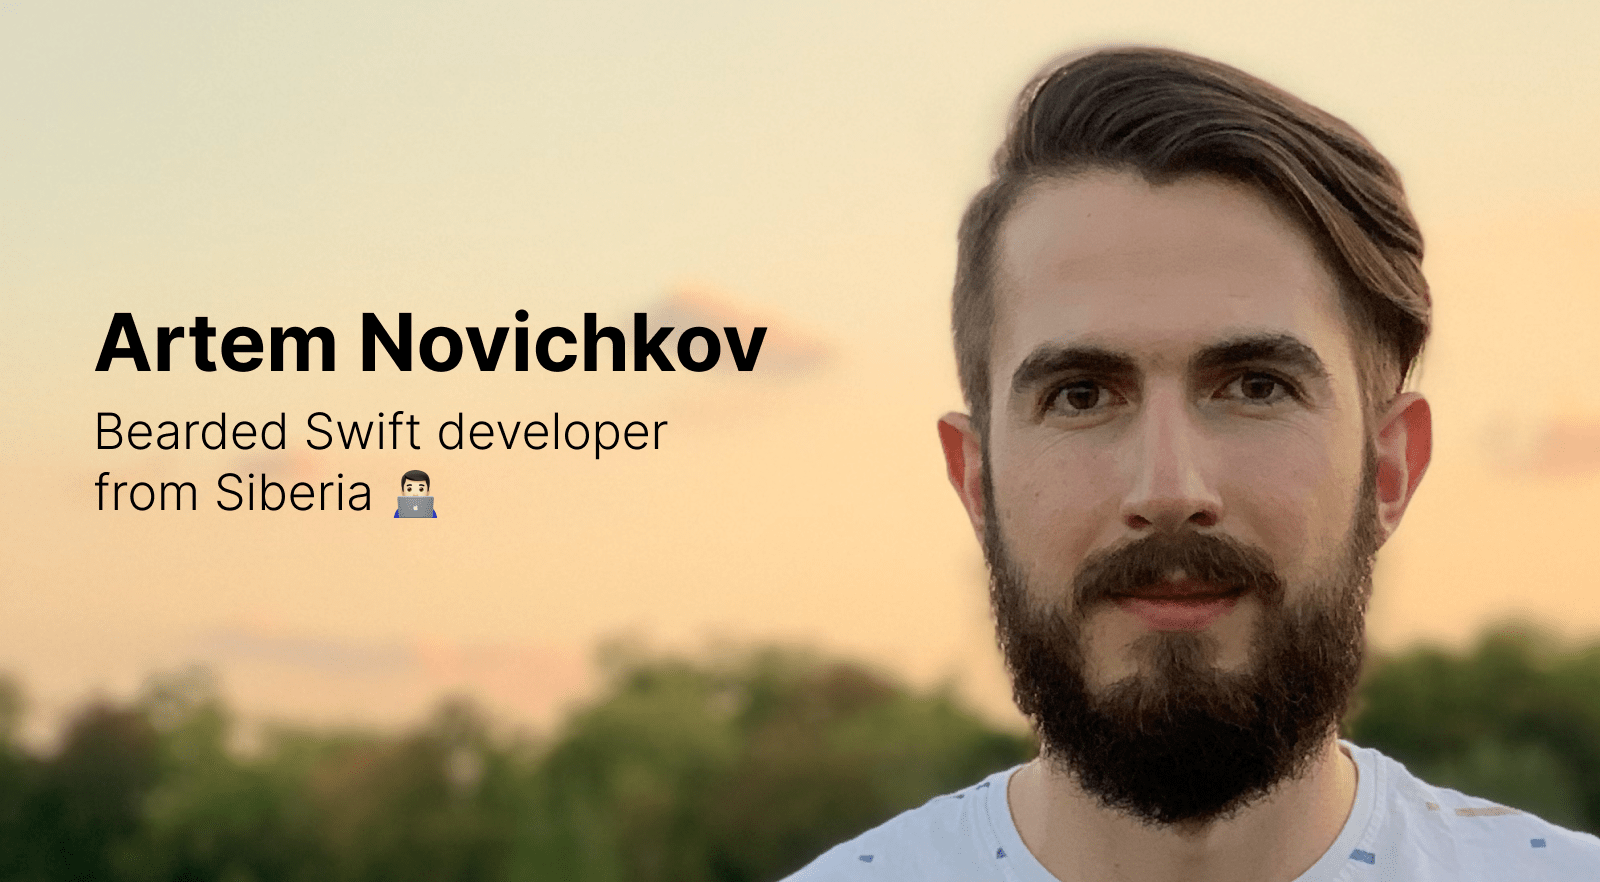
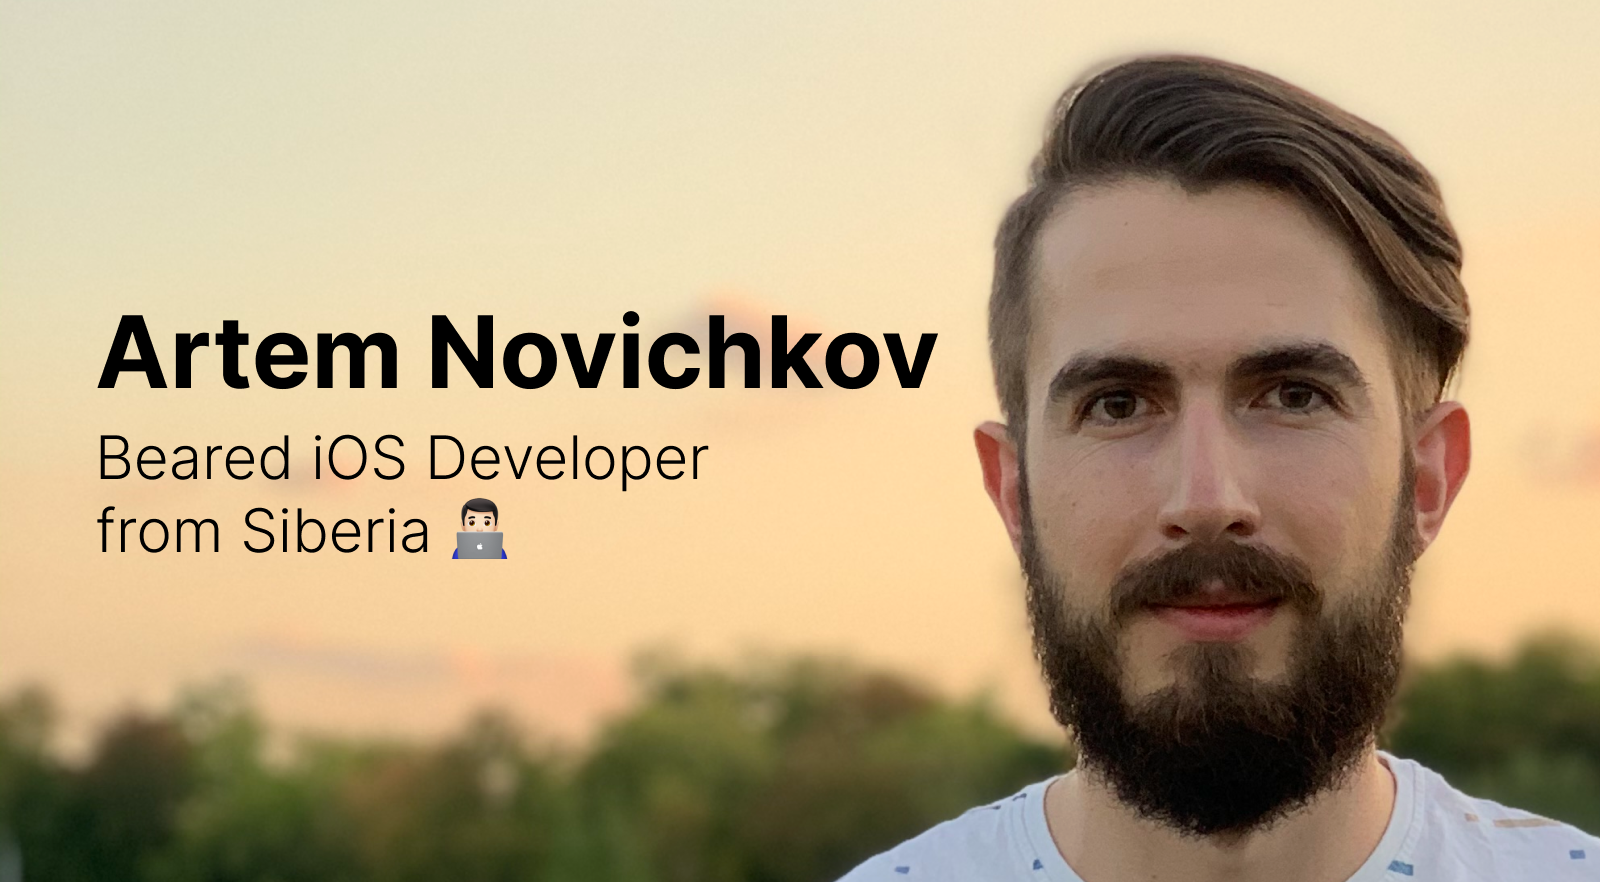
Update description

Changed region(s): [[0.0, 0.0306, 1.0, 1.0], [0.0, 0.949, 0.0312, 1.0]]

diff --git a/lib/const.js b/lib/const.js
@@ -1,3 +1,3 @@
 export const name ='Artem Novichkov'
-export const about = 'Bearded Swift developer from Siberia 👨🏻💻'
+export const about = 'Bearded iOS developer from Siberia 👨🏻💻'
 export const title = `${name} – ${about}`
